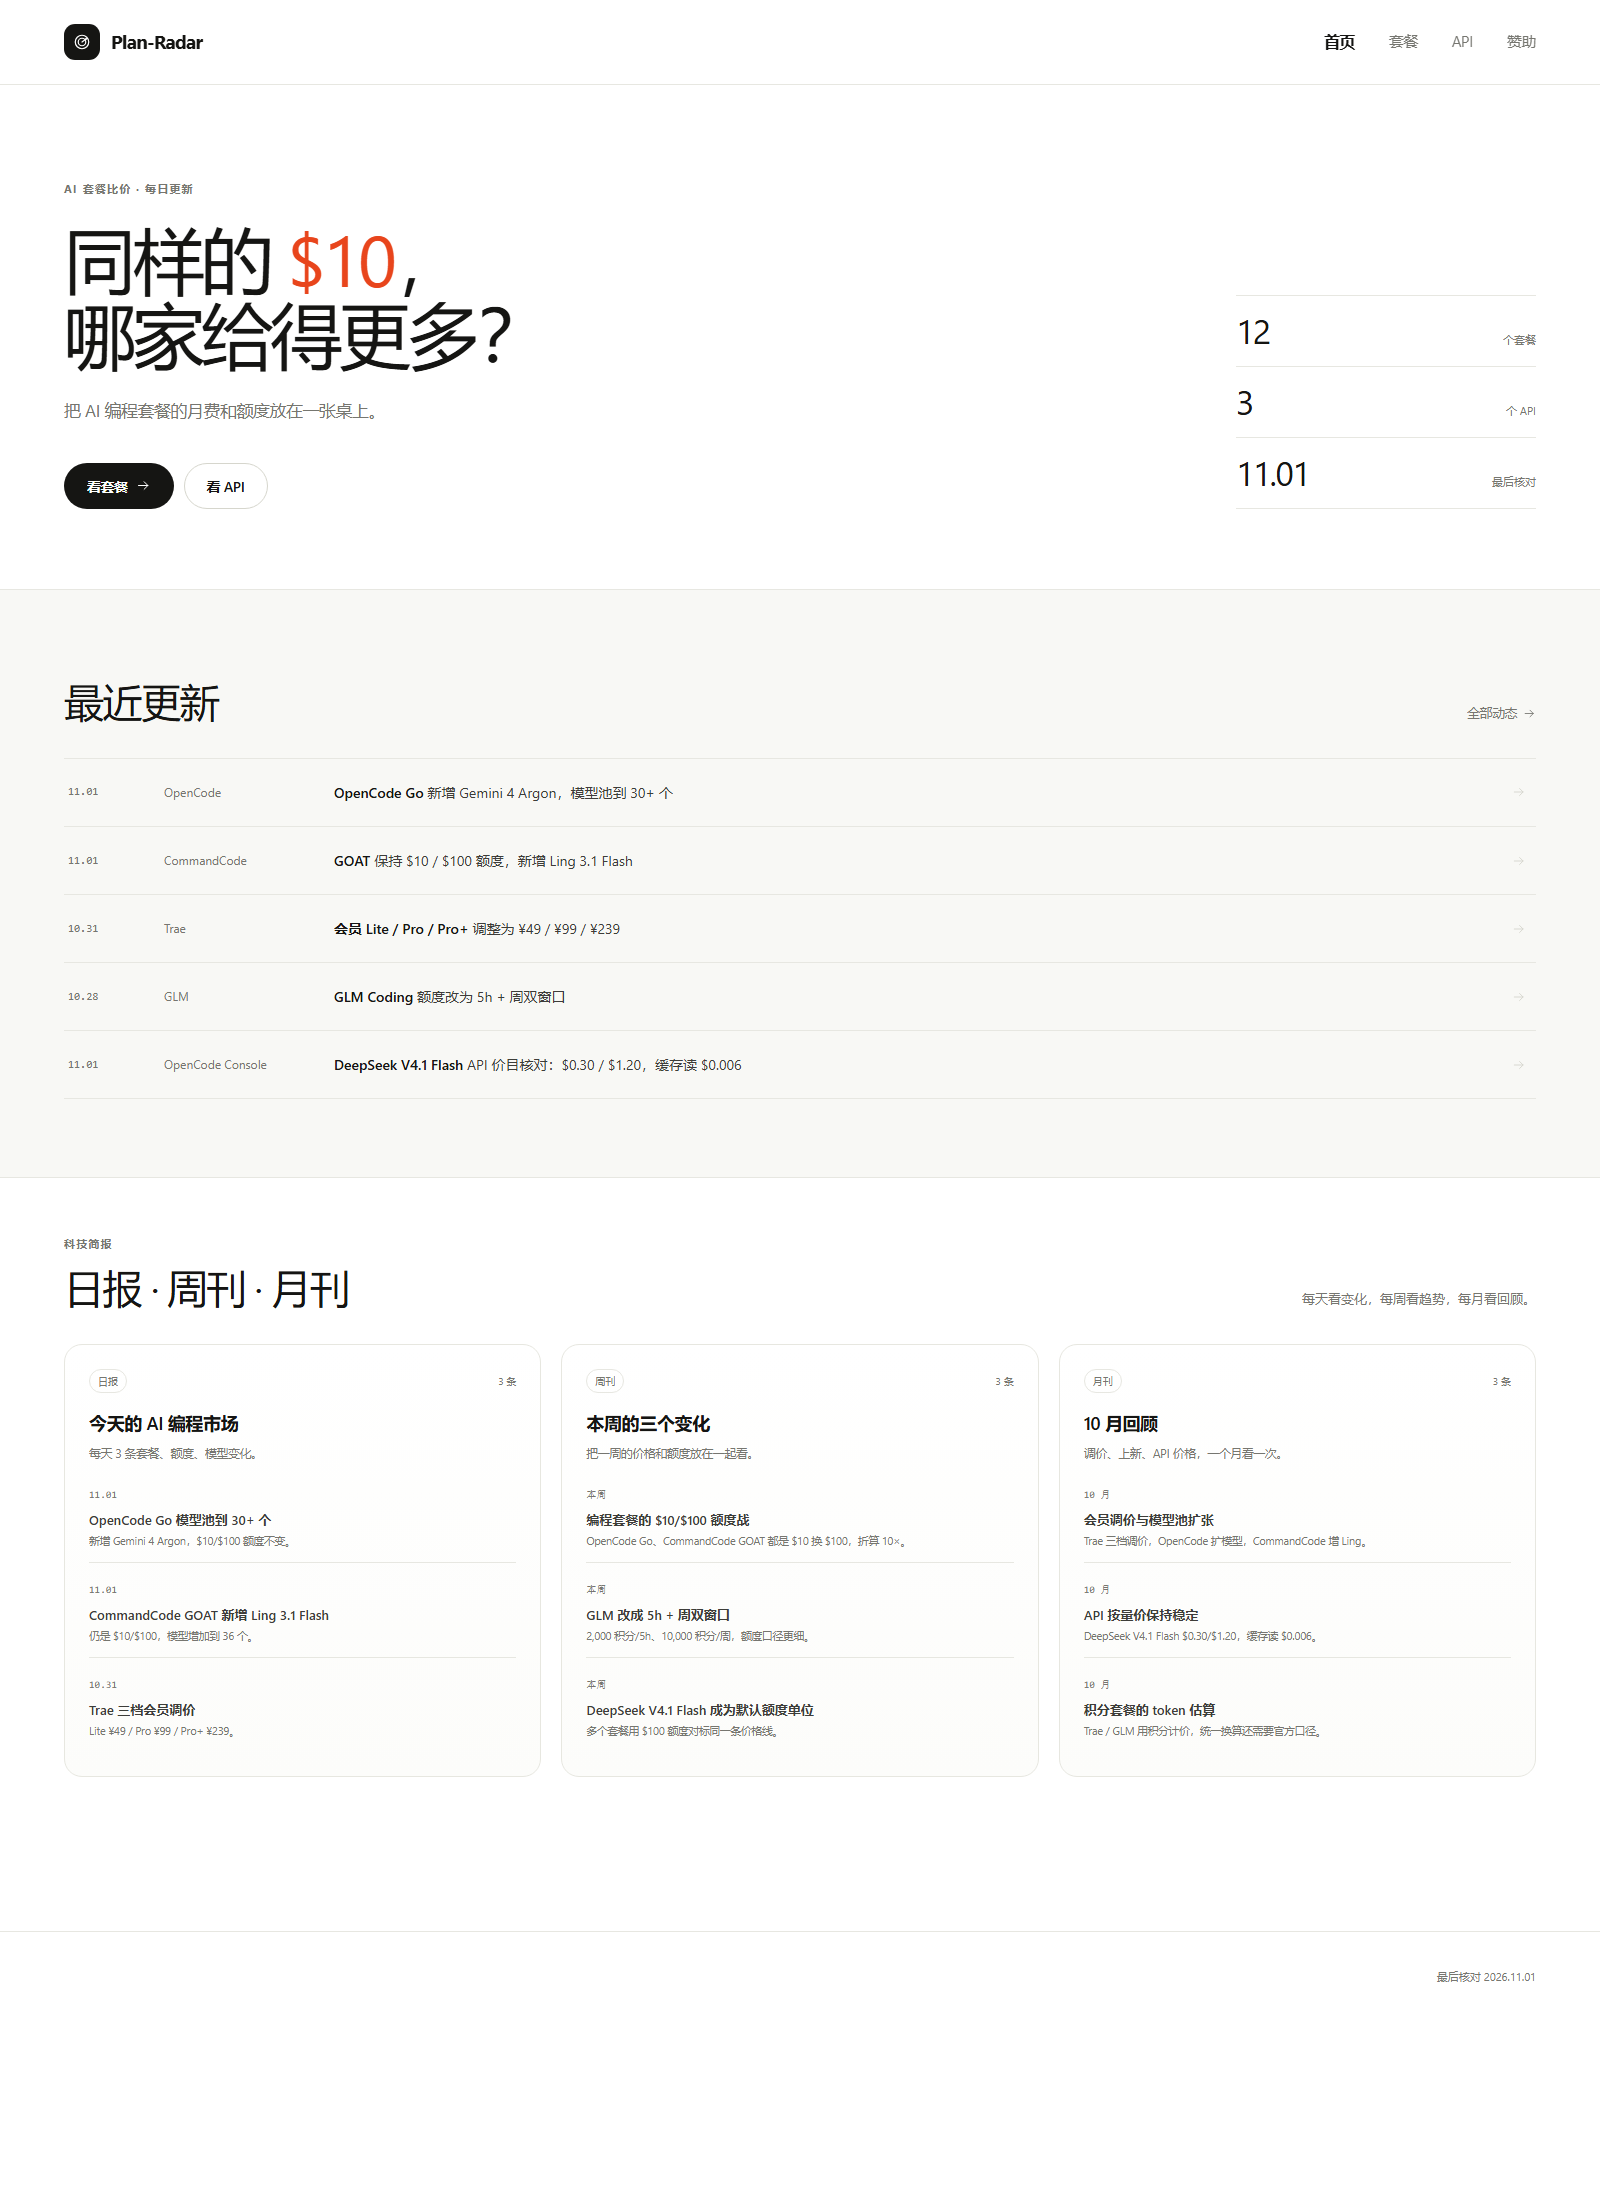
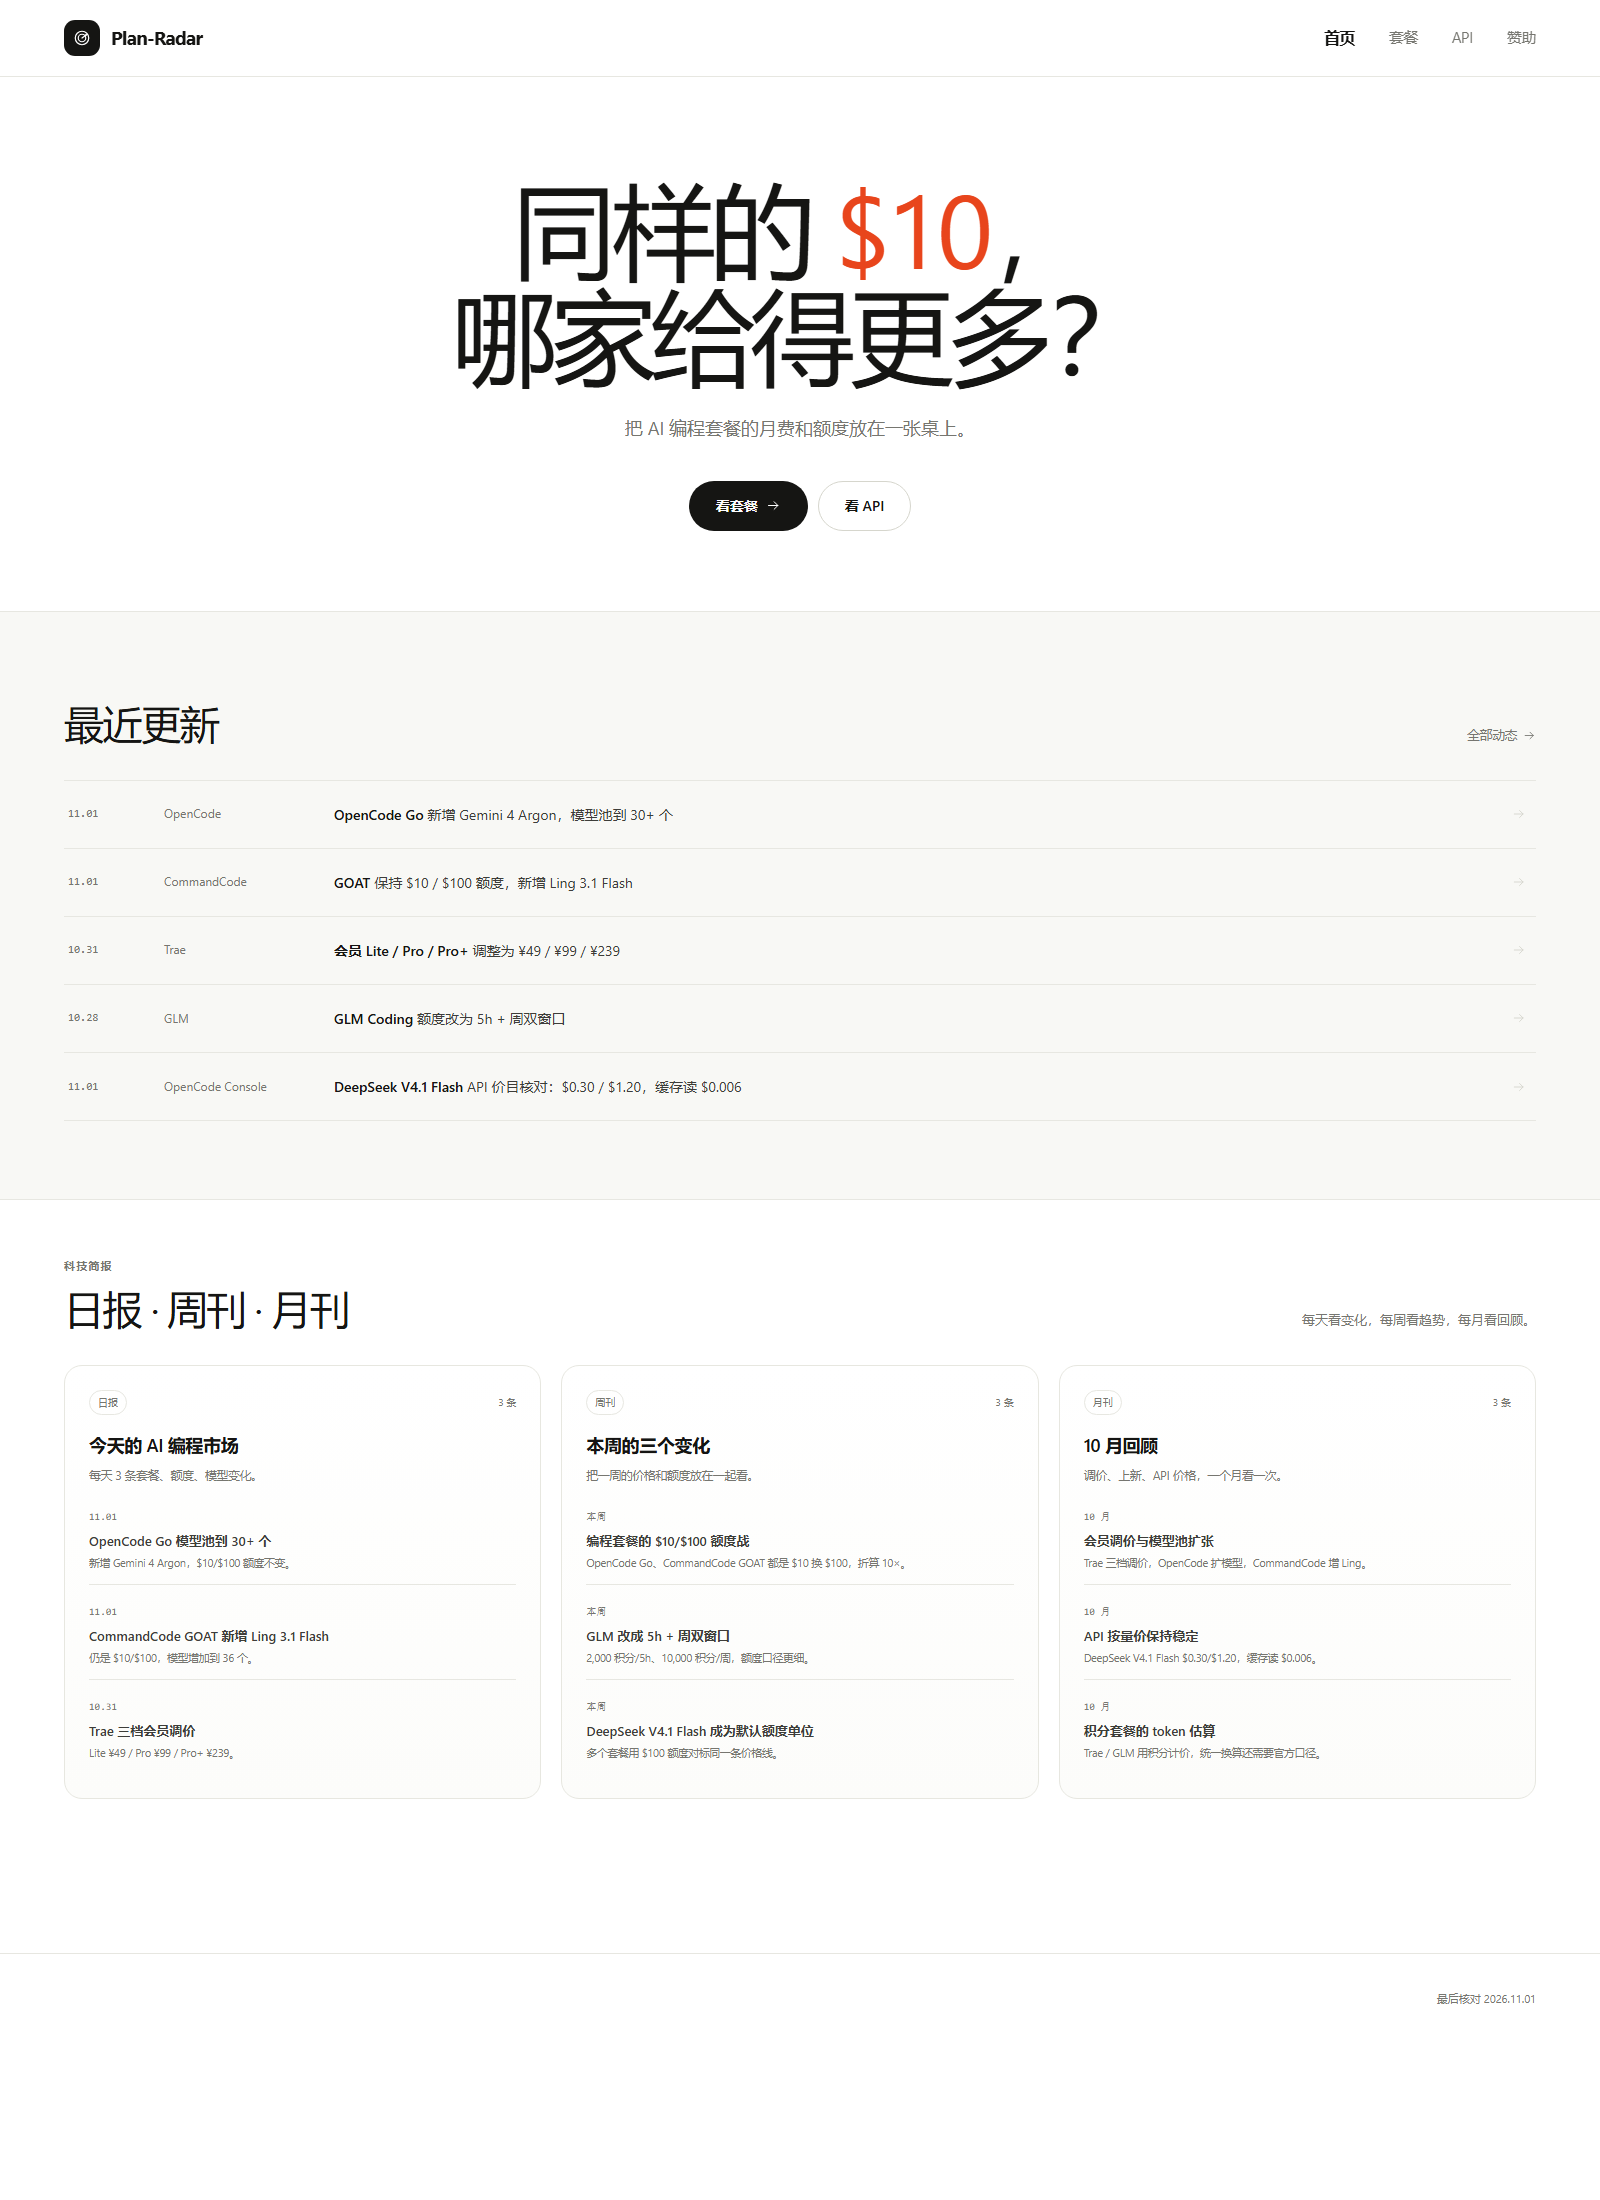
fix: center hero

diff --git a/app/page.tsx b/app/page.tsx
@@ -5,40 +5,22 @@ import { updates } from "@/lib/plans";
 export default function HomePage() {
   return (
     <>
-      <section className="hero">
-        <div className="wrap hero-grid">
-          <div>
-            <div className="eyebrow">AI 套餐比价 · 每日更新</div>
-            <h1 className="display" style={{ marginTop: 22 }}>
-              同样的 <em>$10</em>，
-              <br />
-              哪家给得更多？
-            </h1>
-            <p className="lead">把 AI 编程套餐的月费和额度放在一张桌上。</p>
-            <div className="hero-actions">
-              <a className="btn primary" href="/plans/">
-                看套餐 <Icon name="arrow" />
-              </a>
-              <a className="btn secondary" href="/api/">
-                看 API
-              </a>
-            </div>
+      <section className="hero hero-centered">
+        <div className="wrap hero-centered-inner">
+          <h1 className="display">
+            同样的 <em>$10</em>，
+            <br />
+            哪家给得更多？
+          </h1>
+          <p className="lead">把 AI 编程套餐的月费和额度放在一张桌上。</p>
+          <div className="hero-actions">
+            <a className="btn primary" href="/plans/">
+              看套餐 <Icon name="arrow" />
+            </a>
+            <a className="btn secondary" href="/api/">
+              看 API
+            </a>
           </div>
-
-          <aside className="hero-aside">
-            <div className="hero-stat">
-              <b>12</b>
-              <span>个套餐</span>
-            </div>
-            <div className="hero-stat">
-              <b>3</b>
-              <span>个 API</span>
-            </div>
-            <div className="hero-stat">
-              <b>11.01</b>
-              <span>最后核对</span>
-            </div>
-          </aside>
         </div>
       </section>
 

diff --git a/app/globals.css b/app/globals.css
@@ -225,6 +225,32 @@ h1, h2, h3, p { margin: 0; }
   gap: 10px;
   margin-top: 38px;
 }
+.hero-centered-inner {
+  display: flex;
+  flex-direction: column;
+  align-items: center;
+  text-align: center;
+}
+.hero-centered .display {
+  max-width: 1100px;
+  font-size: clamp(56px, 7vw, 104px);
+  line-height: 1.02;
+}
+.hero-centered .lead {
+  margin-top: 28px;
+  max-width: 640px;
+  font-size: 18px;
+  text-align: center;
+}
+.hero-centered .hero-actions {
+  justify-content: center;
+  margin-top: 36px;
+}
+.hero-centered .btn {
+  height: 50px;
+  padding: 0 26px;
+  font-size: 14px;
+}
 .hero-aside {
   border-top: 1px solid var(--line);
 }
@@ -1392,6 +1418,10 @@ h1, h2, h3, p { margin: 0; }
   .nav a.active { font-size: 13.5px; }
   .header-cta { display: none; }
   .hero { padding: 58px 0 48px; }
+  .hero-centered .display { font-size: clamp(40px, 10vw, 64px); }
+  .hero-centered .lead { margin-top: 20px; font-size: 16px; }
+  .hero-centered .hero-actions { margin-top: 28px; }
+  .hero-centered .btn { height: 46px; padding: 0 20px; font-size: 13.5px; }
   .hero .lead { font-size: 15px; margin-top: 20px; }
   .hero-actions { margin-top: 28px; flex-wrap: wrap; }
   .section { padding: 56px 0; }
